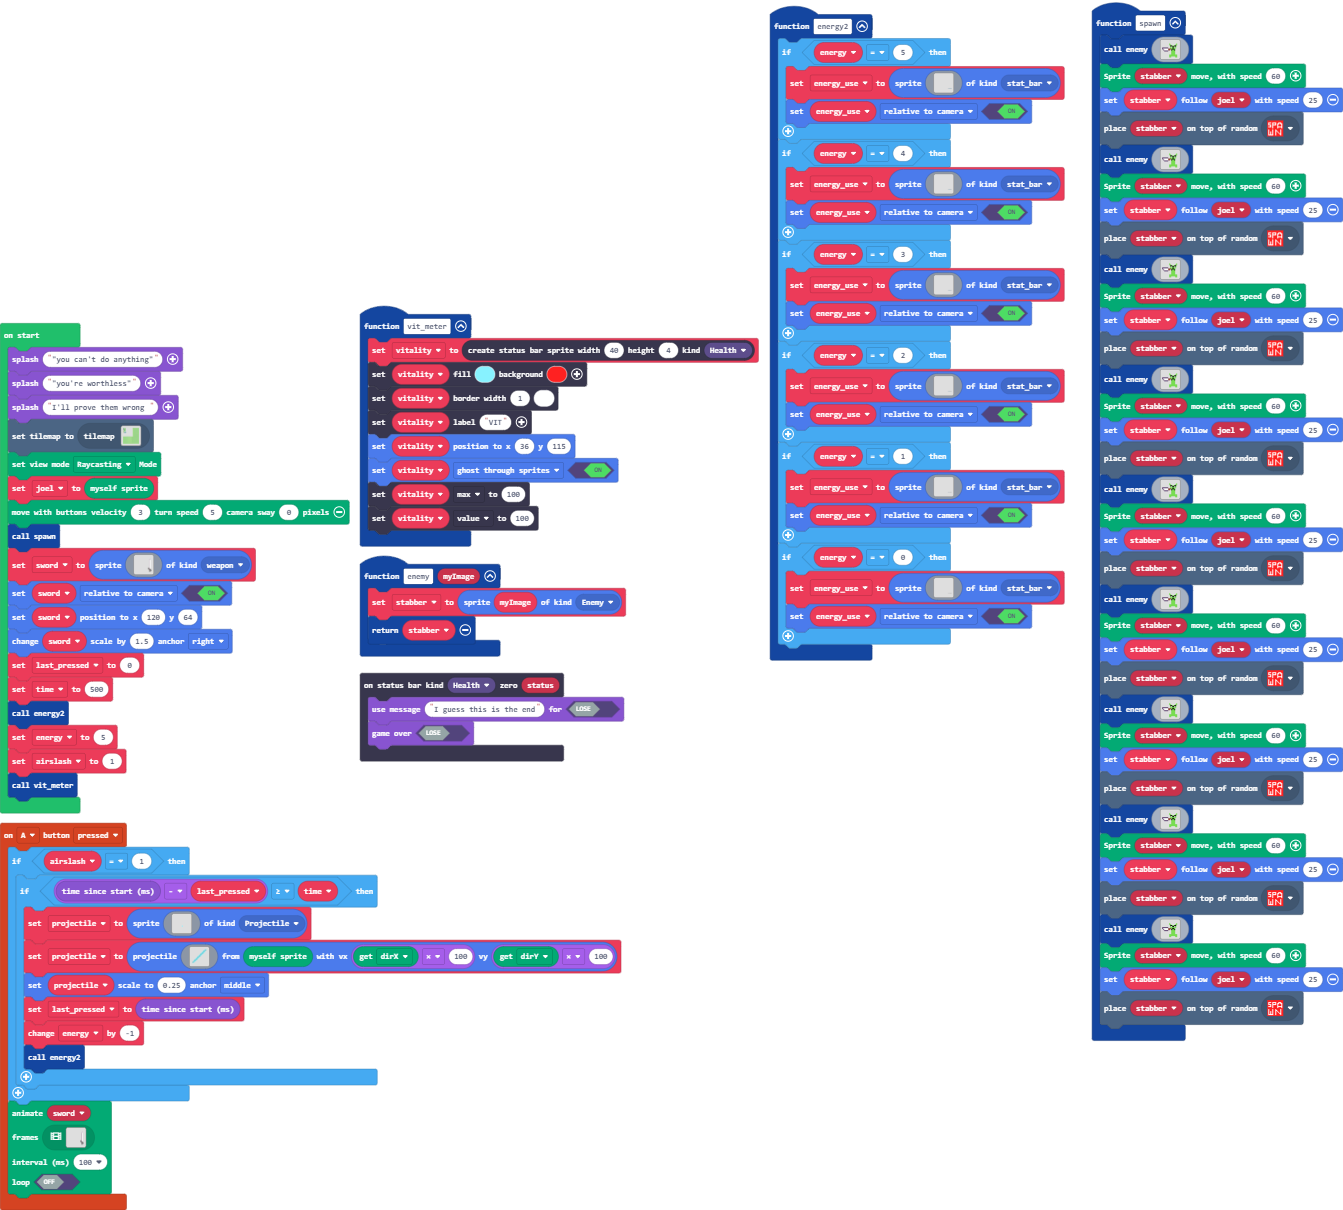
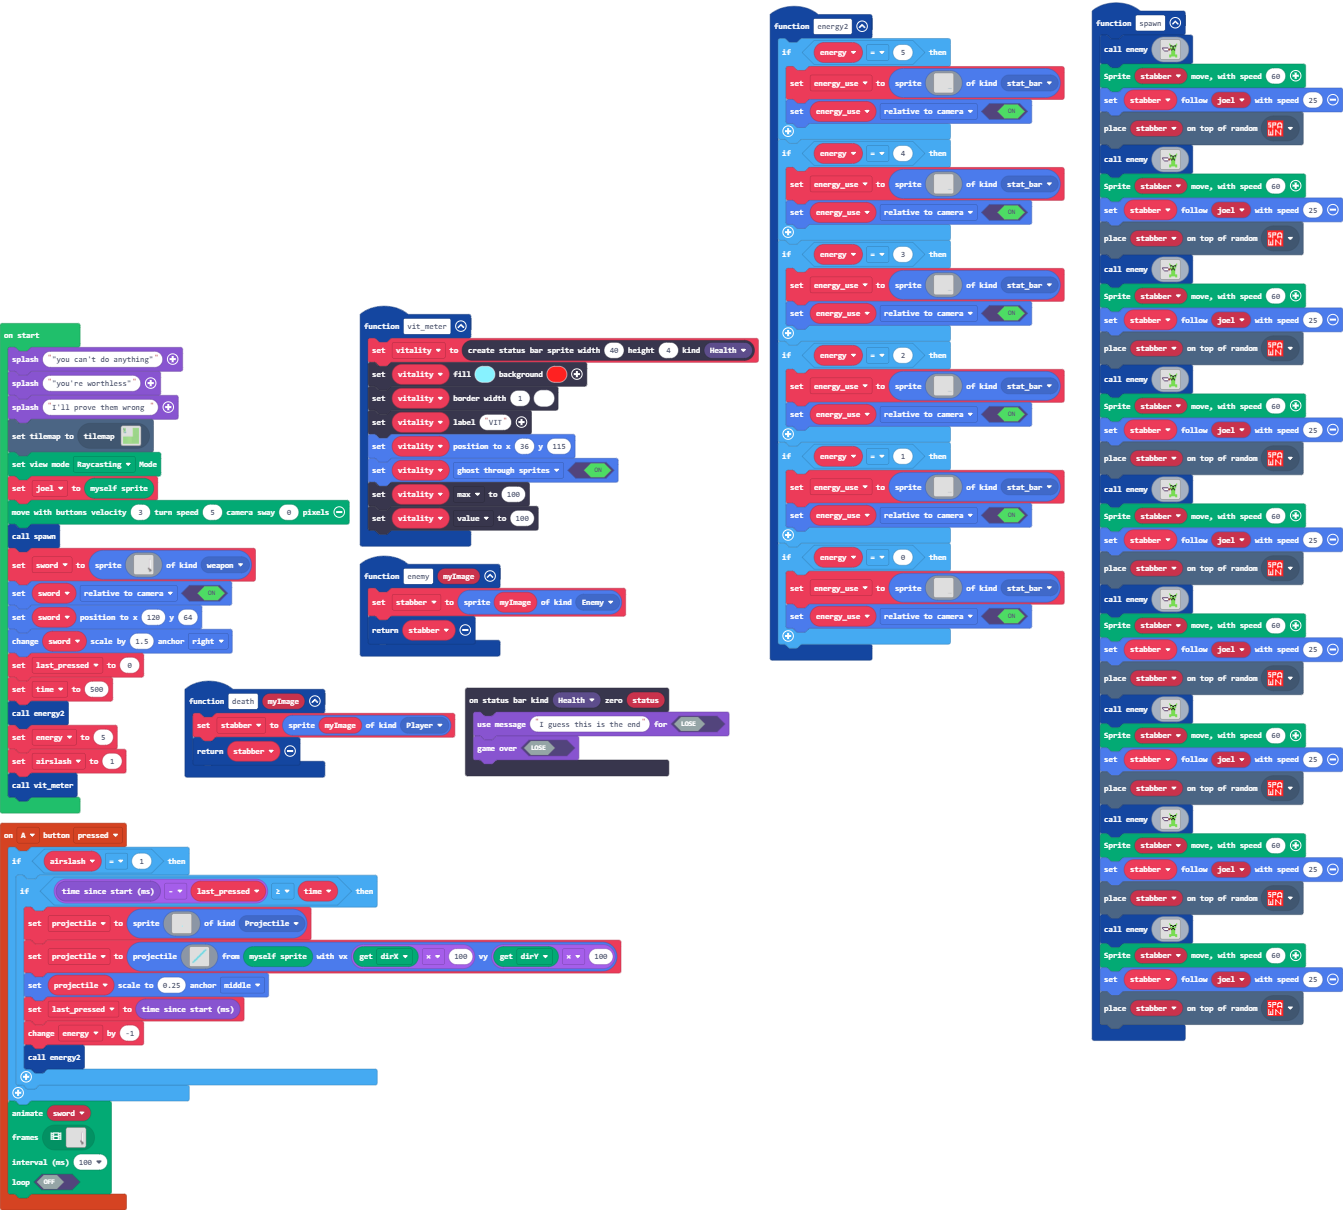
Update main.blocks, main.ts, images.g.jres, images.g.ts

Changed region(s): [[0.1221, 0.5504, 0.5495, 0.6421]]

diff --git a/images.g.ts b/images.g.ts
@@ -881,6 +881,41 @@ c 1 1 1 1 1 e e e 7 f f 7 . . .
 ................................................................................................................................................................
 ................................................................................................................................................................
 `;
+            case "image11":
+            case "ded":return img`
+....................................
+....................................
+....................................
+....................................
+....................................
+....................................
+....................................
+....................................
+....................................
+....................................
+....................................
+....................................
+....................................
+....................................
+....................................
+....................................
+....................................
+....................................
+....................................
+....................................
+....................................
+....................................
+....................................
+....................................
+....................................
+....................................
+....................................
+....................................
+....................................
+....................................
+....................................
+....................................
+`;
         }
         return null;
     })

diff --git a/main.ts b/main.ts
@@ -1,6 +1,7 @@
 namespace SpriteKind {
     export const weapon = SpriteKind.create()
     export const stat_bar = SpriteKind.create()
+    export const ded = SpriteKind.create()
 }
 function energy2 () {
     if (energy == 5) {
@@ -323,6 +324,10 @@ controller.A.onEvent(ControllerButtonEvent.Pressed, function () {
     false
     )
 })
+function death (myImage: Image) {
+    stabber = sprites.create(myImage, SpriteKind.Player)
+    return stabber
+}
 function vit_meter () {
     vitality = statusbars.create(40, 4, StatusBarKind.Health)
     vitality.setColor(9, 2)
@@ -379,8 +384,8 @@ function spawn () {
     stabber.follow(joel, 25)
     tiles.placeOnRandomTile(stabber, assets.tile`enemyspawn`)
 }
-let stabber: Sprite = null
 let vitality: StatusBarSprite = null
+let stabber: Sprite = null
 let projectile: Sprite = null
 let energy_use: Sprite = null
 let airslash = 0
